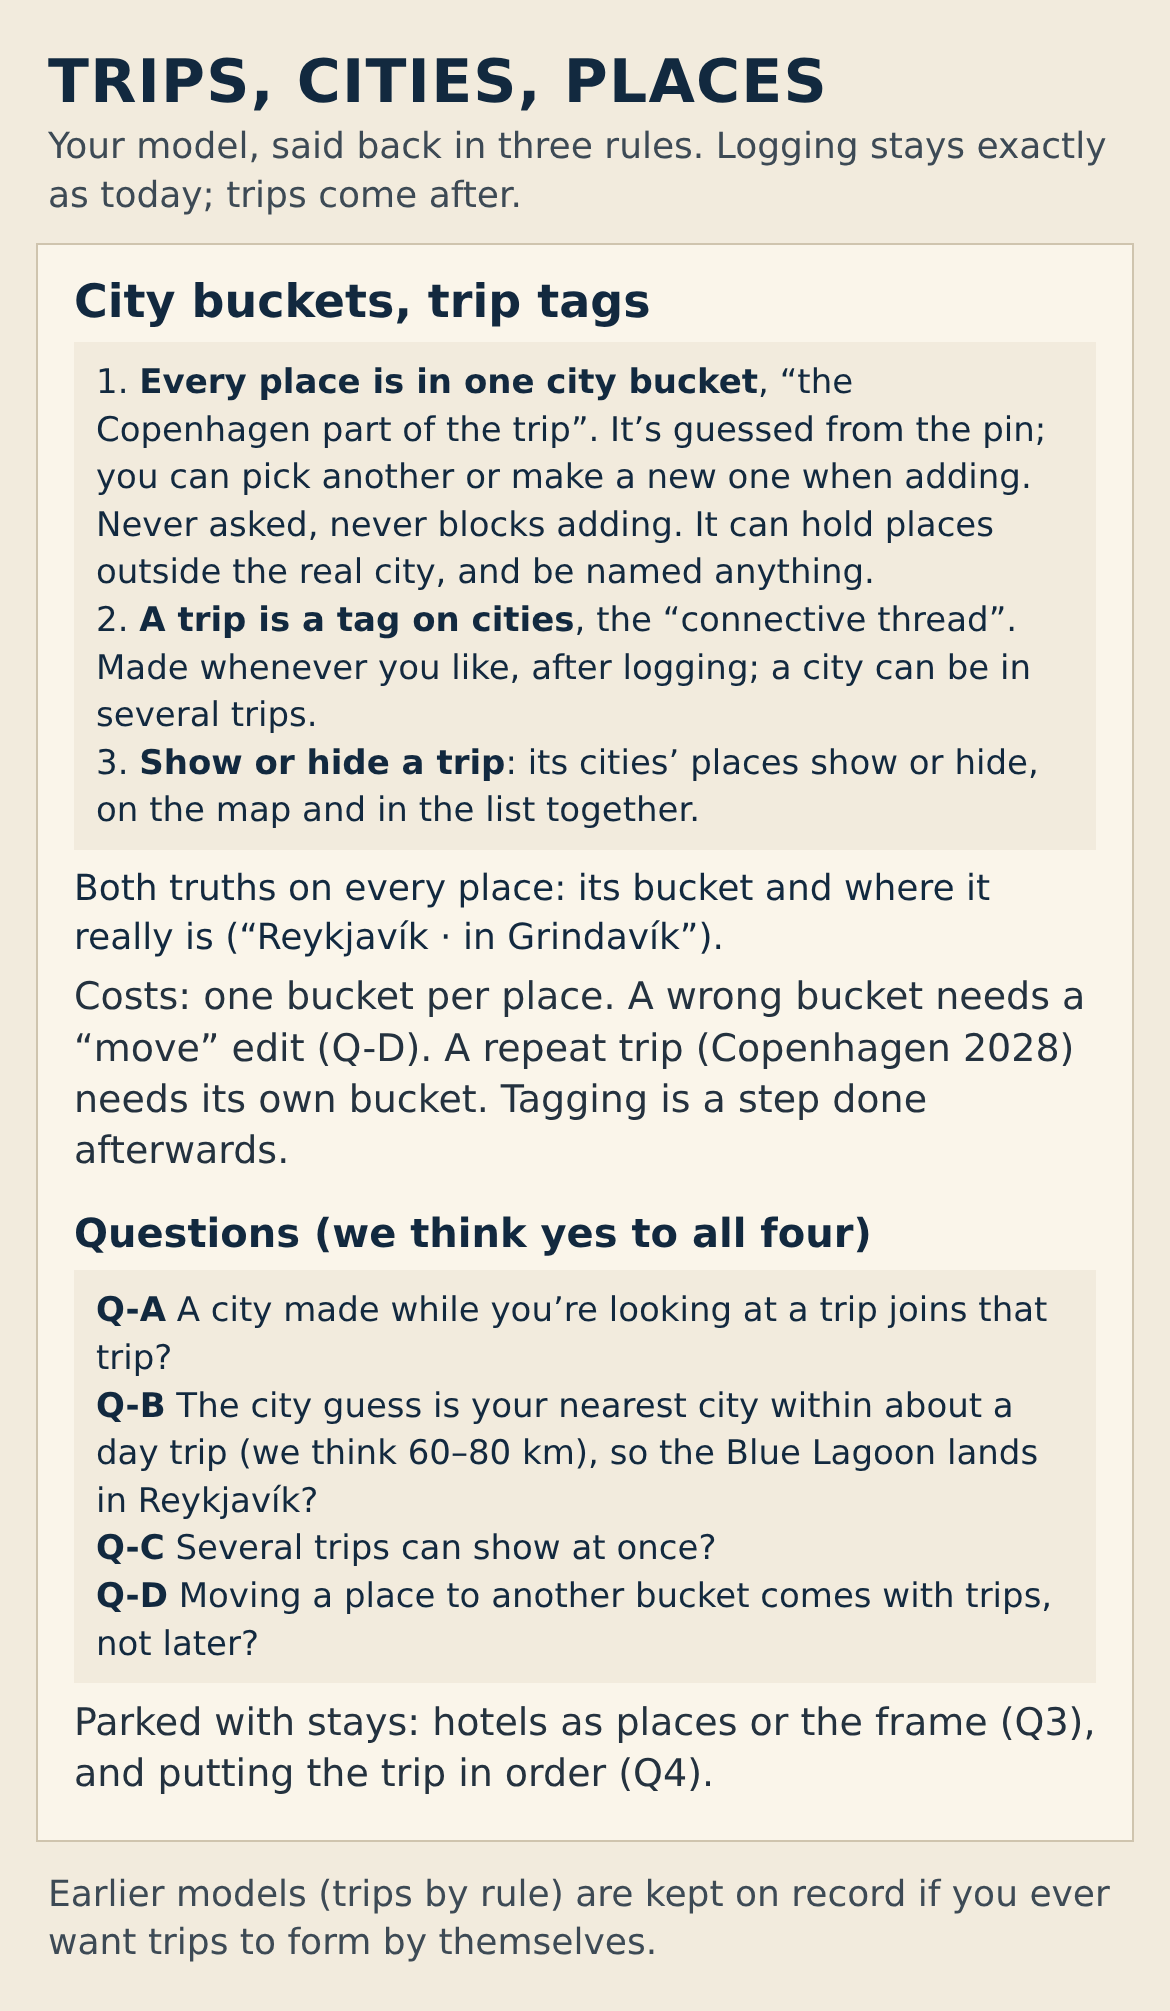
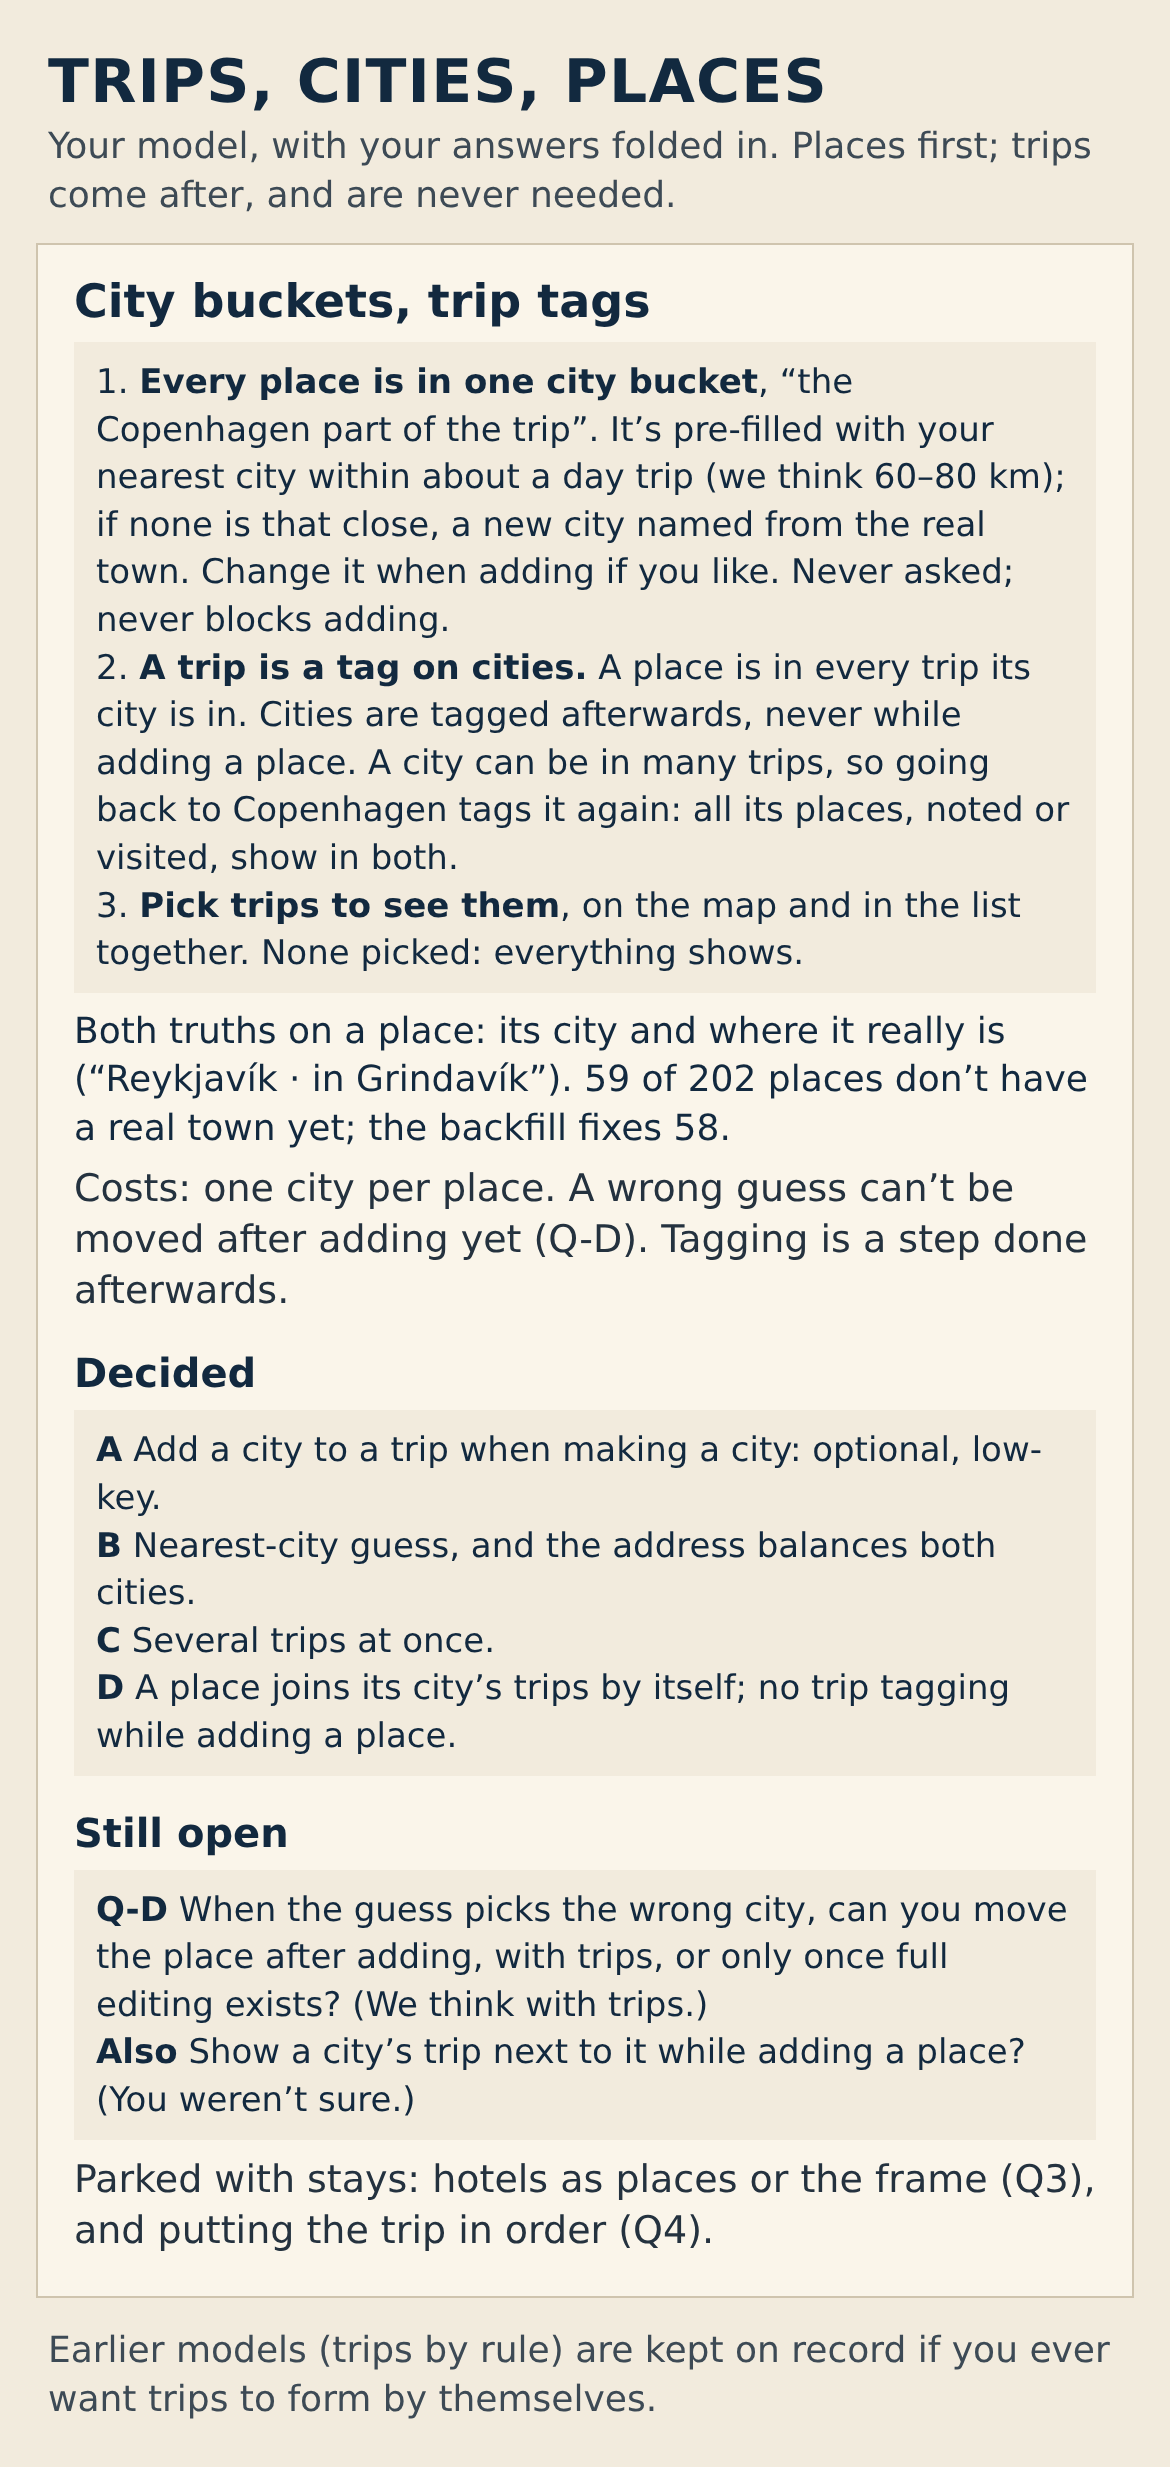
trip-model: WIP Turn 26
Claude-Session: https://claude.ai/code/session_01KJurQQYHfCNMLJBzKaXeDY

Changed region(s): [[0.0308, 0.0, 0.9538, 0.9866]]

diff --git a/design/trip-location-model/jobs.md b/design/trip-location-model/jobs.md
@@ -56,45 +56,59 @@ the owner and a place.
 
 ## Terms
 
-- **Bucket** (a "city" in the app): one per place, guessed from the pin,
-  overridable or new at add; it can hold places outside its real bounds
-  and be named anything.
+- **Bucket** (a "city" in the app): one per place. Pre-filled by the
+  guess: the nearest bucket within about a day trip (we think 60-80 km,
+  unmeasured); if none is within reach, a new bucket named from the real
+  town. Changeable or new at add; it can hold places outside its real
+  bounds and be named anything.
 - **Real town:** where the place really is (`address_details`).
-- **Trip:** a tag on buckets; optional, made after logging, any number;
-  a bucket can be in several.
-- **Showing a trip:** a filter; the list and the map narrow together.
+- **Trip:** a tag on buckets; optional, any number; a bucket can be in
+  several (the owner's current guess: "i should be able to assign a
+  city to many trips"), and a place is in every trip its bucket is in. Tagged after,
+  or when a city is created on its own; never inside adding a place.
+- **Trip filter:** none selected → every place; some selected → the
+  places whose bucket is in any of them. The list and the map move
+  together.
 
 ## Model checks
 
 1. **Log a place with no trip.** PASS if a place can be logged, and
    seen, with no trip existing.
 2. **A bucket can hold a place outside its real town.** PASS if the
-   Blue Lagoon (Grindavík) can be in Reykjavík by the guess (Q-B,
-   pending) or the pick at add.
-3. **Both truths.** PASS if a place exposes its bucket and its real town
-   ("Reykjavík · in Grindavík").
-4. **Trips are tags made after.** PASS if a trip is made after logging,
-   any number exist, and one bucket can be in several.
-5. **Showing trips.** PASS if showing a trip narrows the list and the
-   map together to its buckets' places, and hiding it removes them;
-   several at once (Q-C, pending).
+   Blue Lagoon (Grindavík) is guessed into Reykjavík (about 40 km, within
+   a day trip; Q-B decided), or picked at add.
+3. **Both truths** (owner, Q-B). PASS if a place exposes its bucket and
+   its real town ("Reykjavík · in Grindavík"), wherever the real town is
+   known (not yet on 59 of 202: 58 fixable by the backfill, 1 with no
+   town).
+4. **Trips are tags.** PASS if a city can be tagged any time after, or
+   optionally when created on its own (never inside adding a place); any
+   number of trips exist; one bucket can be in several; and a new place
+   joins its bucket's trips automatically.
+5. **The trip filter.** PASS if, with no trip selected, every place
+   shows; with one or more selected (Q-C decided), exactly the places
+   whose bucket is in any of them show, in the list and on the map
+   together; deselecting the last one returns to everything; a city in
+   two trips shows if either is selected.
 6. **The city filter sits under the trip.** PASS if, with a trip shown,
-   the city filter picks among that trip's buckets, and with none, it
-   works as today.
+   the city filter picks among the selected trips' buckets, and with
+   none, among all.
 7. **Plans.** PASS if a trip shows the plans with a stop in its
    buckets, and a plan's stops can be in any buckets.
-8. **A repeat trip.** PASS if Copenhagen 2028 can be kept apart from
-   2026 through a separate bucket ("Copenhagen 2028").
+8. **A repeat trip doesn't change the pins** (owner). PASS if a second
+   trip to Copenhagen tags the same city, and all its places, noted or
+   visited before, show under both trips.
 9. **Nothing structural is required at add.** PASS if the bucket is
-   pre-filled and never asked for or blocking ADD.
-10. **A wrong bucket can be fixed.** PASS only with the move edit (Q-D,
-    pending). Without it: FAIL, stated as the model's one gap.
+   always pre-filled (an existing bucket, or a new one named from the
+   real town) and never asked for or blocking ADD.
+10. **A wrong guess can be fixed.** PASS only with the move edit (Q-D,
+    open). Without it: FAIL, stated as the model's one gap.
 
 ## Creation moment
 
 | # | Moment | PASS if | FAIL if |
 |---|---|---|---|
-| C1 | **First open, empty** | no trip exists or is required; search is worldwide; the first place can be logged at once | any trip, city or setup step is required |
+| C1 | **First open, empty** | no bucket or trip exists or is required; search is worldwide; the first place is logged at once, into a new bucket named from its real town | any trip, city or setup step is required |
 
 C2-C9 are retired (they checked automatic trips and figures).
 
@@ -102,29 +116,31 @@ C2-C9 are retired (they checked automatic trips and figures).
 
 | Case | Outcome | Check |
 |---|---|---|
-| **T1 Øresund:** Saltholm, Kastrup Søbad (Tårnby), and Malmö | Malmö is its own bucket, as today. Saltholm and Kastrup Søbad go to the guessed bucket (Copenhagen) or the pick; their real town shows Tårnby. A trip tagging Copenhagen and Malmö shows all of them | PASS |
-| **T2 The airport:** Keflavík; Kastrup for both Copenhagen and Malmö | Keflavík goes to Reykjavík by the guess (Q-B) or the pick. Kastrup is in **one** bucket; a trip tagging both cities shows it either way. It can't be under both buckets (by design) | PASS |
-| **T3 Jönköping** | The guess or the pick: a nearby bucket, or a new "Jönköping" bucket tagged into the trip | PASS |
-| **T4 Copenhagen 2028** | A separate bucket ("Copenhagen 2028") in its own trip. Places already in 2026's Copenhagen that you go back for need the move edit (Q-D) | PASS with Q-D; without it, the leftovers stay in 2026's bucket |
+| **T1 Øresund:** Saltholm, Kastrup Søbad (Tårnby), and Malmö | Malmö is its own bucket. Saltholm and Kastrup Søbad go to the guessed bucket (the nearest within reach: Copenhagen) or the pick; their real town shows Tårnby. A trip tagging Copenhagen and Malmö shows all of them | PASS |
+| **T2 The airport:** Keflavík; Kastrup for both Copenhagen and Malmö | Keflavík goes to Reykjavík by the guess (about 40 km straight-line, approximate) or the pick. Kastrup is in **one** bucket; a trip tagging both cities shows it either way. It can't be under both buckets (by design) | PASS |
+| **T3 Jönköping** | No bucket within a day trip, so the guess is a new "Jönköping" bucket (or the pick). It joins the trip only when tagged afterwards | PASS |
+| **T4 Copenhagen again in 2028** | A 2028 trip tags Copenhagen too. Copenhagen is in both trips; every Copenhagen place, noted or visited in 2026, shows under both. No pin changes, no new bucket | PASS |
 
 ## Today, for reference
 
-Today has buckets, the guess and the override. It **fails 4, 5 and 8**
-(no trips; a repeat trip could have its own city only via the new-city
-question), **3** (the real town isn't shown), **9** (a pin outside every
-city triggers the new-city question, `maybeDetectCity()`) and **10** (no move). It **passes 1, 2, 6 and 7**, and C1
-fails (cities are seeded before any place).
+Today has buckets, the guess (the seeded city's box) and the override.
+It **fails 4 and 5** (no trips), **8** (no second trip to tag), **3** (the real town isn't shown), **9** (a pin outside every
+city triggers the new-city question, `maybeDetectCity()`) and **10** (no move). It **passes 1, 2
+(by the pick), 6 and 7**, and C1 fails (cities are seeded before any
+place).
 
 ## What the model stores, and its prerequisite
 
 - per place: its bucket and its real town (as today);
 - buckets (today's `cities` registry);
 - **new:** trips (a name) and which buckets each trip tags;
-- the move edit (Q-D) changes a place's bucket; nothing else is edited.
+- the move edit (Q-D, open) changes a wrongly guessed place's bucket;
+  nothing else is edited.
 - **Real town:** 144 of 202 places have it; 59 don't (58 need the
   short-address backfill, 1 has details but no town; live count,
-  2026-10-15). Check 3 needs the backfill for those 59; nothing else
-  does.
+  2026-10-15). Check 3 needs the backfill for 58 of them (1 has no
+  town to find). New buckets are named from it; without it, from the
+  next address level.
 
 ## Out of scope
 

diff --git a/design/trip-location-model/concepts/5-city-buckets-trip-tags.md b/design/trip-location-model/concepts/5-city-buckets-trip-tags.md
@@ -25,7 +25,7 @@ answers (Q-A to Q-C, and D as answered), or today's fact.
      replaces today's new-city question, because places-first rules out
      asking.
    - At add you can pick another bucket or make a new one, named
-     anything ("Golden Circle", "Copenhagen 2028"). A bucket can hold
+     anything ("Golden Circle"). A bucket can hold
      places outside its real bounds (the Blue Lagoon in Reykjavík).
    - **Both truths** (owner, Q-B: "the address needs to comfortably
      balance the idea of the city it belongs to in the app vs the city
@@ -38,7 +38,13 @@ answers (Q-A to Q-C, and D as answered), or today's fact.
      city is created on its own, optionally and with low prominence
      (owner, A). **Never inside adding a place** (owner, D).
    - Trips are optional: nothing needs one. A city can be in several
-     trips.
+     trips (the owner's current guess, not a hard rule: "my guess right
+     now is that i should be able to assign a city to many trips").
+   - **A repeat trip tags the same city again** (owner: "a repeat trip
+     to the same place should not change the pins -- if i go back to a
+     place i may want to see all the places i noted prior / which i
+     visited / etc"). Copenhagen in "Scandinavia 2026" and in a 2028
+     trip shows all its places, visited or not, under both.
 3. **Trips filter what you see, on the map and in the list together.**
    - No trip selected: every place shows, whether or not its city is in
      a trip.
@@ -69,13 +75,12 @@ answers (Q-A to Q-C, and D as answered), or today's fact.
 
 ## The prices, said plainly
 
-- **A wrong bucket can't be fixed after adding** unless the move edit
+- **A wrong guess can't be fixed after adding** unless the move edit
   comes (Q-D, open). The owner: "or somehow manually...i dont think i
   can do that today".
-- **A repeat trip to the same city needs its own bucket**
-  ("Copenhagen 2028"), and **its places must be picked by hand at
-  add**: two buckets on the same ground have near-identical centres, so
-  the guess can land in either.
+- **Two buckets on the same ground** (if the owner ever makes one) have
+  near-identical centres, so the guess can land in either; pick by hand.
+  A repeat trip never needs this: it re-tags the same city.
 - **One bucket per place:** Kastrup is in Copenhagen or Malmö, not both.
   A trip tagging both cities shows it either way.
 - **Tagging is a step done afterwards,** never during adding a place.
@@ -106,13 +111,19 @@ Unchanged: the pick at add, the city filter, plans.
     the city it belongs to in the app vs the city the address actually
     places it"
   - **C:** "yes"
+  - **Many trips per city (the owner's current guess):** "my guess right
+    now is that i should be able to assign a city to many trips"
+  - **Repeat trips:** "a repeat trip to the same place should not change
+    the pins -- if i go back to a place i may want to see all the places
+    i noted prior / which i visited / etc"
   - **D (as answered: trips at add):** "When adding a place to a city,
     it should automatically be added to any relevant trips. BUT you
     should not add cities to trips inside of the ui of adding a place."
 - **Still open:**
-  - **Q-D (as asked):** should moving a place to another bucket after
-    adding come with trips, or wait for full place editing? (We think
-    with trips.) The orchestrator re-asks it.
+  - **Q-D:** when the guess put a place in the wrong city, should
+    moving it to the right one after adding come with trips, or wait for
+    full place editing? (We think with trips.) Repeat trips don't need
+    it. The orchestrator re-asks it.
   - **Seeing the trip at add:** the owner: "Im ambivalent/not sure if
     you should see the associated trip alongside the city when adding a
     place."
